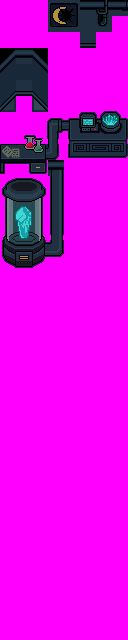
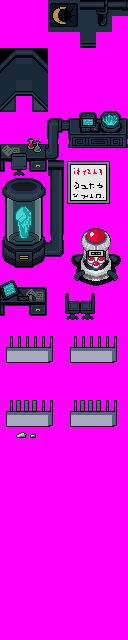
Added more to eclipse hideout tileset

diff --git a/src/region_map.c b/src/region_map.c
@@ -349,7 +349,7 @@ static const u8 sAstreaMapHealLocations[][3] =
     [MAPSEC_LUMEN_VILLAGE] = {MAP_GROUP(MAP_LUMEN_VILLAGE), MAP_NUM(MAP_LUMEN_VILLAGE), HEAL_LOCATION_LUMEN_VILLAGE},
     [MAPSEC_SOLSTICE_TOWN] = {MAP_GROUP(MAP_SOLSTICE_TOWN), MAP_NUM(MAP_SOLSTICE_TOWN), HEAL_LOCATION_SOLSTICE_TOWN},
     [MAPSEC_ASTRIDALE] = {MAP_GROUP(MAP_ASTRIDALE), MAP_NUM(MAP_ASTRIDALE), HEAL_LOCATION_ASTRIDALE},
-    // [MAPSEC_CAELESTIC] = {MAP_GROUP(MAP_CAELESTIC), MAP_NUM(MAP_CAELESTIC), HEAL_LOCATION_CAELESTIC},
+    [MAPSEC_CAELESTIC] = {MAP_GROUP(MAP_CAELESTIC), MAP_NUM(MAP_CAELESTIC), HEAL_LOCATION_CAELESTIC},
     // [MAPSEC_NEBULA_TOWN] = {MAP_GROUP(MAP_NEBULA_TOWN), MAP_NUM(MAP_NEBULA_TOWN), HEAL_LOCATION_NEBULA_TOWN},
     // [MAPSEC_ZENITH_CITY] = {MAP_GROUP(MAP_ZENITH_CITY), MAP_NUM(MAP_ZENITH_CITY), HEAL_LOCATION_ZENITH_CITY},
     // [MAPSEC_DRIFTWOOD_HOLLOW] = {MAP_GROUP(MAP_DRIFTWOOD_HOLLOW), MAP_NUM(MAP_DRIFTWOOD_HOLLOW), HEAL_LOCATION_DRIFTWOOD_HOLLOW},

diff --git a/include/constants/event_objects.h b/include/constants/event_objects.h
@@ -258,6 +258,7 @@
 
 #define OBJ_EVENT_GFX_JIRACHI OBJ_EVENT_GFX_SPECIES(JIRACHI)
 #define OBJ_EVENT_GFX_PIDOVE OBJ_EVENT_GFX_SPECIES(PIDOVE)
+#define OBJ_EVENT_GFX_ZIGZAGOON OBJ_EVENT_GFX_SPECIES(ZIGZAGOON)
 #define OBJ_EVENT_GFX_MACHOKE OBJ_EVENT_GFX_SPECIES(MACHOKE)
 #define OBJ_EVENT_GFX_MUNNA OBJ_EVENT_GFX_SPECIES(MUNNA)
 #define OBJ_EVENT_GFX_SCYTHER OBJ_EVENT_GFX_SPECIES(SCYTHER)

diff --git a/src/tileset_anims.c b/src/tileset_anims.c
@@ -733,7 +733,7 @@ static void QueueAnimTiles_General_Flower(u16 timer)
 
 static void QueueAnimTiles_General_Water(u16 timer)
 {
-    u8 i = timer % ARRAY_COUNT(gTilesetAnims_General_Water);
+    u16 i = timer % ARRAY_COUNT(gTilesetAnims_General_Water);
     AppendTilesetAnimToBuffer(gTilesetAnims_General_Water[i], (u16 *)(BG_VRAM + TILE_OFFSET_4BPP(437)), 2 * TILE_SIZE_4BPP);
 }
 
